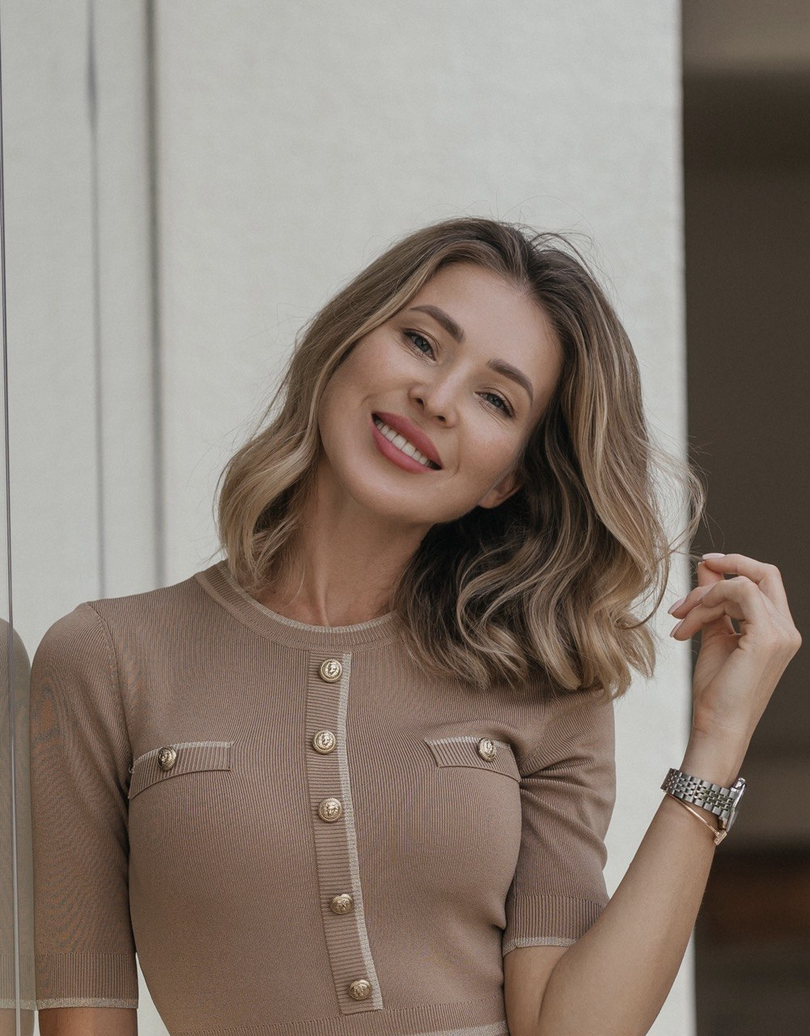
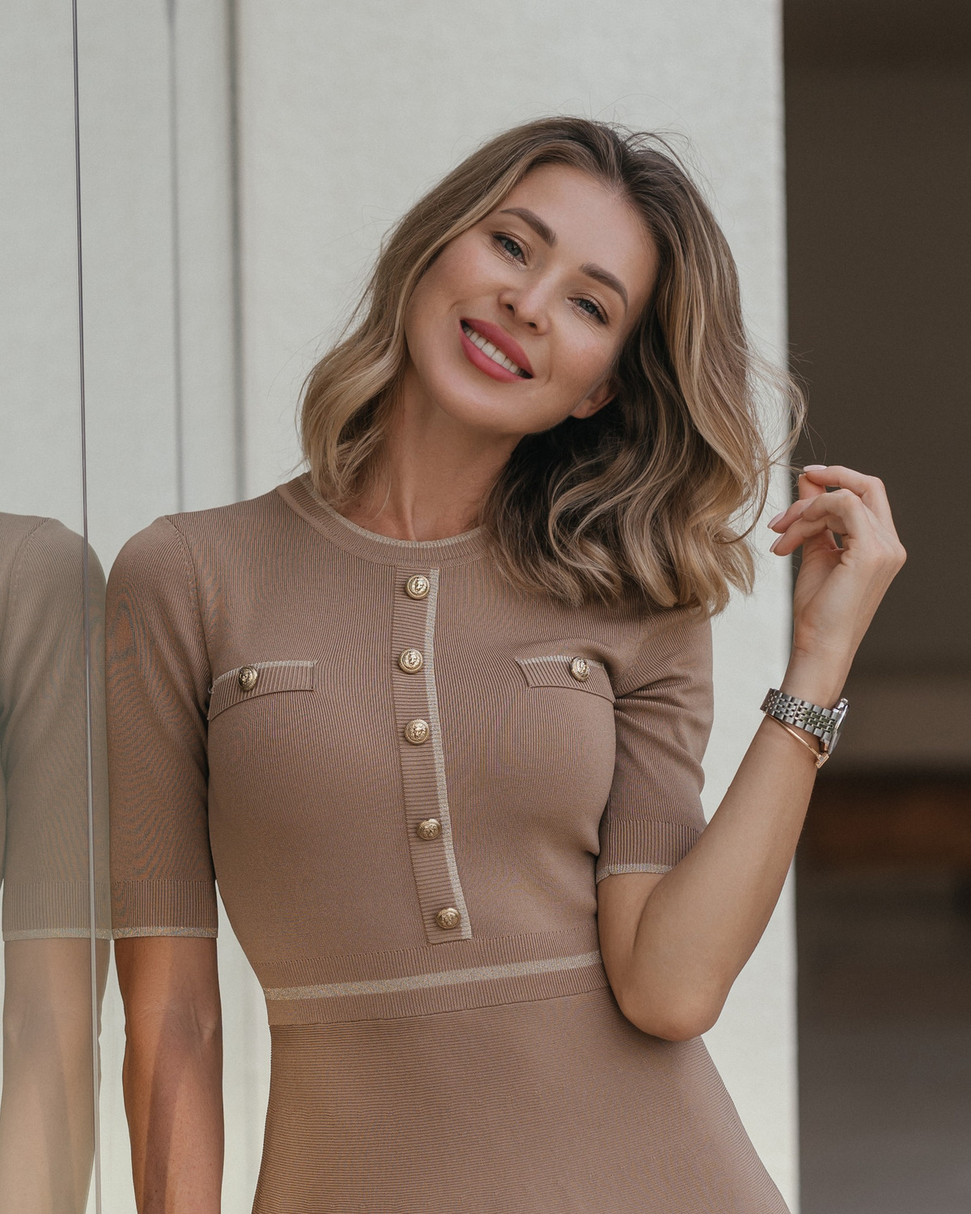
feat(content): publish approved about and founders updates

diff --git a/about/index.html b/about/index.html
@@ -2,14 +2,14 @@
   <a class="brand" href="/" aria-label="Гравитация, главная страница"><img class="brand__mark" src="/assets/brand/logo-mark.svg" alt="" aria-hidden="true"><span class="brand__text"><span class="brand__name">ГРАВИТАЦИЯ</span><span class="brand__tag">КЛУБ ВСТРЕЧ</span></span></a>
   <button class="menu-toggle" type="button" aria-expanded="false" aria-controls="main-nav" aria-label="Открыть меню"><span></span><span></span></button>
   <nav class="site-nav" id="main-nav" aria-label="Основная навигация"><a href="/about/">О клубе</a><a href="/events/">Мероприятия</a><a href="/founders/">Основатели</a><a class="site-nav__cta" href="/apply/">Подать заявку</a></nav>
-</header><main><section class="page-hero page-hero--dark"><div class="page-hero__copy"><p class="eyebrow eyebrow--gold">О КЛУБЕ</p><h1><span class="about-hero-phrase"><span class="about-hero-line">НЕ ИСКАТЬ</span><span class="about-hero-line">ЧЕЛОВЕКА</span></span><span class="about-hero-phrase"><span class="about-hero-line"><em>ОКАЗАТЬСЯ</em></span><span class="about-hero-line"><em>СРЕДИ СВОИХ</em></span></span></h1><p class="page-hero__lead">Мы создаём пространство, где знакомство не становится задачей. Оно возникает естественно — через общий опыт, атмосферу и живое взаимодействие</p></div><div class="orbit-stage" aria-hidden="true"><div class="orbit-stage__planet"></div><div class="orbit-stage__ring orbit-stage__ring--one"></div><div class="orbit-stage__ring orbit-stage__ring--two"></div><div class="orbit-stage__star"></div></div></section>
+</header><main><section class="page-hero page-hero--dark"><div class="page-hero__copy"><p class="eyebrow eyebrow--gold">О КЛУБЕ</p><h1><span class="about-hero-phrase"><span class="about-hero-line">НЕ ИСКАТЬ</span><span class="about-hero-line">ЧЕЛОВЕКА</span></span><span class="about-hero-phrase"><span class="about-hero-line"><em>ОКАЗАТЬСЯ</em></span><span class="about-hero-line"><em>СРЕДИ СВОИХ</em></span></span></h1><p class="page-hero__lead">Мы создаём атмосферу, где знакомство не становится задачей. Люди узнают друг друга естественно — через общие впечатления, интересные разговоры и неожиданные реакции.</p></div><div class="orbit-stage" aria-hidden="true"><div class="orbit-stage__planet"></div><div class="orbit-stage__ring orbit-stage__ring--one"></div><div class="orbit-stage__ring orbit-stage__ring--two"></div><div class="orbit-stage__star"></div></div></section>
 <figure class="story-figure story-figure--chapter story-figure--about-1"><picture><source media="(max-width: 760px)" srcset="/assets/images/story/about-1-mobile.png"><img src="/assets/images/story/about-1.png" alt="Мужчина стоит у бассейна на фоне моря и заката" loading="lazy" decoding="async" width="1672" height="941"></picture><figcaption class="story-figure__caption"><strong>01 · ВСТРЕЧА</strong><h2 class="about-1-headline">За каждым человеком есть больше, чем первое впечатление</h2></figcaption></figure>
-<section class="section section--light story-copy"><div class="section-heading"><p class="eyebrow">ЗАЧЕМ МЫ СУЩЕСТВУЕМ</p></div><div class="prose-grid"><p>Мы слишком часто воспринимаем другого через роли. За ними становится труднее увидеть живого человека.</p><p>«Гравитация» создана для того, чтобы за ролью увидеть историю, ценности, чувства, мечты и глубину.</p><p class="pull-quote">Настоящие отношения начинаются не тогда, когда нас выбирают, <span class="quote-no-break">а тогда</span>, когда нас <span class="quote-no-break">по-настоящему</span> увидели.</p></div></section>
+<section class="section section--light story-copy"><div class="section-heading"><p class="eyebrow">ЗАЧЕМ МЫ СУЩЕСТВУЕМ</p></div><div class="prose-grid"><p>При знакомстве мы часто видим прежде всего роли: профессию, статус, привычный образ. И порой за всем этим не замечаем самого человека.</p><p>Мы создали ГРАВИТАЦИЮ, чтобы дать возможность увидеть больше — характер, ценности, чувства, мечты. Всё то, из чего складывается настоящая человеческая близость.</p><p class="pull-quote">Настоящие отношения начинаются не тогда, когда нас выбирают, <span class="quote-no-break">а тогда</span>, когда нас <span class="quote-no-break">по-настоящему</span> увидели.</p></div></section>
 <figure class="story-figure story-figure--chapter story-figure--about-2"><picture><source media="(max-width: 760px)" srcset="/assets/images/story/about-2-mobile.png"><img src="/assets/images/story/about-2.png" alt="Двое людей смотрят друг на друга у бассейна на закате" loading="lazy" decoding="async" width="1672" height="941"></picture><figcaption class="story-figure__caption"><strong>02 · ВЗГЛЯД</strong><span>Когда можно не играть роль, разговор возникает естественно</span></figcaption></figure>
-<section class="section section--graphite story-copy story-copy--principles"><div class="section-heading section-heading--light"><p class="eyebrow eyebrow--gold">КАК ЭТО РАБОТАЕТ</p><h2>НЕ ФОРСИРУЕМ<br>СОЗДАЁМ УСЛОВИЯ</h2></div><div class="principle-grid"><article><span>01</span><h3>Общий опыт</h3><p>Встречи строятся вокруг действия, атмосферы и впечатления. Разговор возникает сам, а не потому что «пора познакомиться»</p></article><article><span>02</span><h3>Живое присутствие</h3><p>Меньше желания произвести впечатление. Больше возможности услышать голос, заметить реакции, юмор, тепло и увидеть человека настоящим.</p></article><article><span>03</span><h3>Естественная связь</h3><p>Любовь, дружба, партнёрство, совместная идея или просто хороший вечер. Мы не обещаем результат — мы создаём среду, где он возможен</p></article></div></section>
+<section class="section section--graphite story-copy story-copy--principles"><div class="section-heading section-heading--light"><p class="eyebrow eyebrow--gold">КАК ЭТО РАБОТАЕТ</p><h2>НЕ ФОРСИРУЕМ<br>СОЗДАЁМ УСЛОВИЯ</h2></div><div class="principle-grid"><article><span>01</span><h3>Общий опыт</h3><p>Когда люди вместе проживают что-то интересное, появляются общие впечатления, эмоции и темы для разговора. Знакомство становится естественным продолжением этого опыта.</p></article><article><span>02</span><h3>Живое присутствие</h3><p>Человек раскрывается не только в словах, но и в том, как он слушает, шутит, реагирует, взаимодействует с другими.</p><p>Именно в таких живых моментах мы начинаем чувствовать энергию друг друга и замечаем настоящее.</p></article><article><span>03</span><h3>Естественная связь</h3><p>У каждого знакомства своя история. Иногда это дружба, иногда любовь, партнёрство или новое интересное окружение.</p><p>Мы создаём среду, в которой люди могут почувствовать взаимный интерес и позволить общению развиваться естественно.</p></article></div></section>
 <figure class="story-figure story-figure--chapter story-figure--about-3"><picture><source media="(max-width: 760px)" srcset="/assets/images/story/about-3-mobile.png"><img src="/assets/images/story/about-3.png" alt="Двое людей разговаривают за столом на террасе" loading="lazy" decoding="async" width="1672" height="941"></picture><figcaption class="story-figure__caption"><strong>03 · ЖИВОЕ ОБЩЕНИЕ</strong><span>Здесь можно говорить, смеяться, спорить, наблюдать и просто быть собой — постепенно узнавая друг друга настоящими.</span></figcaption></figure>
-<section class="section section--cream story-copy story-copy--outcomes"><div class="section-heading"><p class="eyebrow">ЧТО ЗДЕСЬ МОЖЕТ СЛУЧИТЬСЯ</p><h2>НЕ КОЛИЧЕСТВО КОНТАКТОВ<br>КАЧЕСТВО СВЯЗИ</h2></div><div class="outcome-grid"><article><i>♡</i><h3>Любовь</h3><p>Встреча без обещаний и искусственного отбора</p></article><article><i>◇</i><h3>Дружба</h3><p>Люди, с которыми совпадает внутренний ритм</p></article><article><i>△</i><h3>Партнёрство</h3><p>Проекты и идеи, которым нужен второй человек</p></article><article><i>○</i><h3>Новый круг</h3><p>Связи, впечатления и ощущение «здесь мои люди»</p></article></div></section>
-<section class="section section--values"><div class="section-heading"><p class="eyebrow eyebrow--gold">НАШИ ОПОРЫ</p><h2>КУЛЬТУРУ СОЗДАЮТ ЛЮДИ</h2></div><div class="value-list"><div><strong>Искренность</strong><p>Не нужно играть роль и соответствовать чужим ожиданиям</p></div><div><strong>Глубина</strong><p>Интерес к человеку дальше внешнего образа и первой реакции</p></div><div><strong>Живое общение</strong><p>Технологии помогают встретиться. Связь рождается только между людьми</p></div><div><strong>Уважение и безопасность</strong><p>Открытость возможна там, где есть границы, внимание и бережность</p></div></div></section>
+<section class="section section--cream story-copy story-copy--outcomes"><div class="section-heading"><p class="eyebrow">ЧТО ЗДЕСЬ МОЖЕТ СЛУЧИТЬСЯ</p><h2>НЕ КОЛИЧЕСТВО КОНТАКТОВ<br>КАЧЕСТВО СВЯЗИ</h2></div><div class="outcome-grid"><article><i>♡</i><h3>Любовь</h3><p>Встреча, с которой может начаться что-то настоящее.</p></article><article><i>◇</i><h3>Дружба</h3><p>Люди, с которыми совпадает внутренний ритм</p></article><article><i>△</i><h3>Партнёрство</h3><p>Проекты и идеи, которым нужен второй человек</p></article><article><i>○</i><h3>Новый круг</h3><p>Связи, впечатления и ощущение «здесь мои люди»</p></article></div></section>
+<section class="section section--values"><div class="section-heading"><p class="eyebrow eyebrow--gold">НАШИ ОПОРЫ</p><h2>КУЛЬТУРУ СОЗДАЮТ ЛЮДИ</h2></div><div class="value-list"><div><strong>Искренность</strong><p>Здесь можно быть собой, не стараясь соответствовать чужим ожиданиям.</p></div><div><strong>Глубина</strong><p>Интерес к человеку за пределами внешнего образа и первого впечатления.</p></div><div><strong>Живое общение</strong><p>Технологии помогают встретиться. Связь рождается только между людьми</p></div><div><strong>Уважение и безопасность</strong><p>Открытость возможна там, где есть границы, внимание и бережность</p></div></div></section>
 <section class="section section--cta"><div><p class="eyebrow">ГРАВИТАЦИЯ</p><h2>ТВОИ ЛЮДИ<br>БЛИЖЕ, ЧЕМ ТЫ ДУМАЕШЬ</h2></div><a class="button button--dark" href="/apply/">Подать заявку</a></section>
 <figure class="story-figure story-figure--final"><picture><source media="(max-width: 760px)" srcset="/assets/images/story/about-4-mobile.png"><img src="/assets/images/story/about-4.png" alt="Коллаж живых встреч и человеческой близости" loading="lazy" decoding="async" width="1671" height="941"></picture></figure>
 </main><footer class="site-footer"><a class="footer-brand" href="/"><img src="/assets/brand/logo-mark.svg" alt=""><span>ГРАВИТАЦИЯ</span></a><p>КЛУБ ВСТРЕЧ · КРАСНОДАР</p><div class="footer-links"><a href="/about/">О клубе</a><a href="/events/">Мероприятия</a><a href="/founders/">Основатели</a><a href="/privacy/">Конфиденциальность</a></div><div class="footer-legal-links" aria-label="Документы"><a href="/offer/">Оферта</a><a href="/terms/">Участие и возврат</a></div><small>© <span data-year></span> Гравитация</small></footer><script src="/assets/js/site.js" defer></script></body></html>

diff --git a/founders/index.html b/founders/index.html
@@ -2,4 +2,4 @@
   <a class="brand" href="/" aria-label="Гравитация, главная страница"><img class="brand__mark" src="/assets/brand/logo-mark.svg" alt="" aria-hidden="true"><span class="brand__text"><span class="brand__name">ГРАВИТАЦИЯ</span><span class="brand__tag">КЛУБ ВСТРЕЧ</span></span></a>
   <button class="menu-toggle" type="button" aria-expanded="false" aria-controls="main-nav" aria-label="Открыть меню"><span></span><span></span></button>
   <nav class="site-nav" id="main-nav" aria-label="Основная навигация"><a href="/about/">О клубе</a><a href="/events/">Мероприятия</a><a href="/founders/">Основатели</a><a class="site-nav__cta" href="/apply/">Подать заявку</a></nav>
-</header><main><section class="founders-hero"><div class="founders-hero__copy"><p class="eyebrow">ОСНОВАТЕЛИ</p><h1>ЗА ГРАВИТАЦИЕЙ<br><em>СТОЯТ ЛЮДИ</em></h1><p>Место, которое мы когда-то искали сами.</p></div><div class="founder-pair" aria-label="Основатели клуба"><article><div class="founder-portrait"><img src="/assets/images/founders/founders_Vlad.jpg" alt="Влад — сооснователь клуба Гравитация" width="940" height="1140"></div><p>ВЛАД</p><small>Сооснователь</small></article><article><div class="founder-portrait"><img src="/assets/images/founders/founders-Lara.jpg" alt="Лара — сооснователь клуба Гравитация" width="1001" height="1280"></div><p>ЛАРА</p><small>Сооснователь</small></article></div></section><section class="section section--founders-note"><div class="section-heading"><p class="eyebrow eyebrow--gold">ИСТОРИЯ</p><h2>ИСТОРИЯ<br>ОСНОВАТЕЛЕЙ</h2></div><article class="founders-story" aria-label="Почему мы создали «ГРАВИТАЦИЮ»"><h3>Почему мы создали «ГРАВИТАЦИЮ»</h3><div class="founders-story__body"><p>«ГРАВИТАЦИЯ» появилась из очень личного опыта.</p><p>Мы сами знаем, как непросто во взрослой жизни встречать людей, с которыми возникает настоящее совпадение: в отношениях, дружбе, общении, совместных идеях. В интернете много способов познакомиться, но гораздо меньше пространств, где можно просто встретиться с человеком и увидеть друг друга настоящими, без необходимости играть роль или производить впечатление.</p><p>Поэтому мы решили создать место, которое когда-то искали сами.</p><p>«ГРАВИТАЦИЯ» собирает открытых, осознанных, увлечённых жизнью людей. Здесь знакомство рождается естественно: через общий опыт, разговоры, совместные впечатления и живое взаимодействие.</p><p>Нам хочется, чтобы рядом оказывались люди, с которыми интересно быть собой. А дальше уже работает притяжение.</p></div></article><div class="founders-note__actions"><a class="button button--gold" href="/apply/">Подать заявку</a><a class="text-link text-link--light" href="/about/">О философии клуба <span>↗</span></a></div></section></main><footer class="site-footer"><a class="footer-brand" href="/"><img src="/assets/brand/logo-mark.svg" alt=""><span>ГРАВИТАЦИЯ</span></a><p>Пространство живых встреч. Краснодар.</p><div class="footer-links"><a href="/about/">О клубе</a><a href="/events/">Мероприятия</a><a href="/privacy/">Конфиденциальность</a></div><small>© <span data-year></span> Гравитация</small></footer><script src="/assets/js/site.js" defer></script></body></html>
+</header><main><section class="founders-hero"><div class="founders-hero__copy"><p class="eyebrow">ОСНОВАТЕЛИ</p><h1>ЗА ГРАВИТАЦИЕЙ<br><em>СТОЯТ ЛЮДИ</em></h1><p>Место, которое мы когда-то искали сами.</p></div><div class="founder-pair" aria-label="Основатели клуба"><article><div class="founder-portrait"><img src="/assets/images/founders/founders_Vlad.jpg" alt="Влад — сооснователь клуба Гравитация" width="940" height="1140"></div><p>ВЛАД</p><small>Сооснователь</small></article><article><div class="founder-portrait"><img src="/assets/images/founders/founders-Lara.jpg?v=lara-20261018-83f4ec4" alt="Лара — сооснователь клуба Гравитация" width="1001" height="1280"></div><p>ЛАРА</p><small>Сооснователь</small></article></div></section><section class="section section--founders-note"><div class="section-heading"><p class="eyebrow eyebrow--gold">ИСТОРИЯ</p><h2>ИСТОРИЯ<br>ОСНОВАТЕЛЕЙ</h2></div><article class="founders-story" aria-label="Почему мы создали «ГРАВИТАЦИЮ»"><h3>Почему мы создали «ГРАВИТАЦИЮ»</h3><div class="founders-story__body"><p>«ГРАВИТАЦИЯ» появилась из очень личного опыта.</p><p>Мы сами знаем, как непросто во взрослой жизни встречать людей, с которыми возникает настоящее совпадение: в отношениях, дружбе, общении, совместных идеях. В интернете много способов познакомиться, но гораздо меньше пространств, где можно просто встретиться с человеком и увидеть друг друга настоящими, без необходимости играть роль или производить впечатление.</p><p>Поэтому мы решили создать место, которое когда-то искали сами.</p><p>«ГРАВИТАЦИЯ» собирает открытых, осознанных, увлечённых жизнью людей. Здесь знакомство рождается естественно: через общий опыт, разговоры, совместные впечатления и живое взаимодействие.</p><p>Нам хочется, чтобы рядом оказывались люди, с которыми интересно быть собой. А дальше уже работает притяжение.</p></div></article><div class="founders-note__actions"><a class="button button--gold" href="/apply/">Подать заявку</a><a class="text-link text-link--light" href="/about/">О философии клуба <span>↗</span></a></div></section></main><footer class="site-footer"><a class="footer-brand" href="/"><img src="/assets/brand/logo-mark.svg" alt=""><span>ГРАВИТАЦИЯ</span></a><p>Пространство живых встреч. Краснодар.</p><div class="footer-links"><a href="/about/">О клубе</a><a href="/events/">Мероприятия</a><a href="/privacy/">Конфиденциальность</a></div><small>© <span data-year></span> Гравитация</small></footer><script src="/assets/js/site.js" defer></script></body></html>

diff --git a/assets/css/story.css b/assets/css/story.css
@@ -154,7 +154,7 @@ html,body{overflow-x:hidden}
 .page-about .orbit-stage__star{top:calc(46% - 25px)}
 .page-about .story-figure--about-1 .story-figure__caption,
 .page-about .story-figure--about-2 .story-figure__caption{left:50%;top:50%;right:auto;bottom:auto;transform:translate(-50%,-50%)}
-.page-about .story-figure--about-3 .story-figure__caption{left:55%;right:auto;top:auto;bottom:10%;transform:translateX(-50%)}
+.page-about .story-figure--about-3 .story-figure__caption{left:50%;right:auto;top:auto;bottom:10%;transform:translateX(-50%)}
 .page-about .outcome-grid h3{text-align:center}
 .page-about .section--cta{align-items:stretch}
 .page-about .section--cta>div{display:flex;flex-direction:column;justify-content:center}
@@ -170,7 +170,8 @@ html,body{overflow-x:hidden}
 @media(min-width:600px){
   .page-about .story-figure--about-1 .story-figure__caption,
   .page-about .story-figure--about-2 .story-figure__caption,
-  .page-about .story-figure--about-3 .story-figure__caption{top:auto;bottom:10px;transform:translateX(-50%)}
+  .page-about .story-figure--about-3 .story-figure__caption{top:auto;bottom:10px;transform:translateX(-50%);width:min(90%,440px);max-width:none;padding:14px 17px}
+  .page-about .story-figure__caption :is(span,.about-1-headline){margin:0;color:var(--cream);font-size:clamp(1rem,1.3vw,1.25rem);font-weight:300;line-height:1.35;letter-spacing:normal}
 }
 
 @media(max-width:599px){
@@ -178,3 +179,5 @@ html,body{overflow-x:hidden}
   .page-about .story-figure--about-2 .story-figure__caption,
   .page-about .story-figure--about-3 .story-figure__caption{top:10px;bottom:auto}
 }
+
+.page-about .principle-grid p + p{margin-top:1em}
